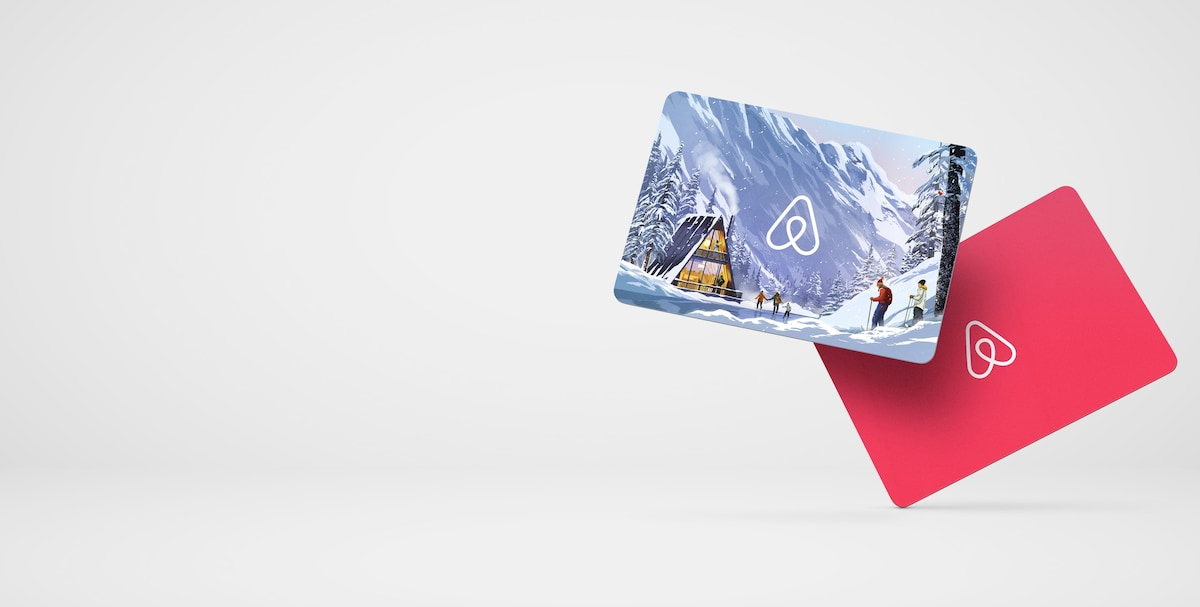
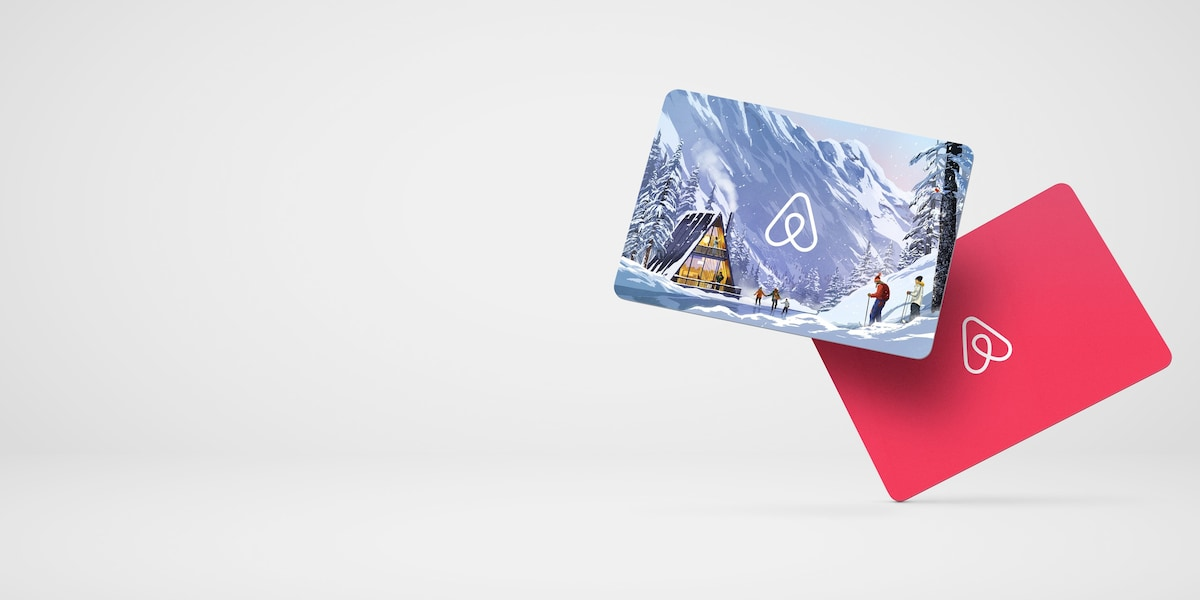
updated next trip component styling

diff --git a/components/nextTrip/NextTrip.module.css b/components/nextTrip/NextTrip.module.css
@@ -2,6 +2,7 @@
   display: flex;
   flex-direction: column;
   margin: 80px;
+  max-width: min(100%, 1600px);
 }
 
 .title {
@@ -11,10 +12,14 @@
 }
 
 .items__parent {
-  display: flex;
-  justify-content: space-between;
-  height: 300.66px;
-  column-gap: 24px;
+  display: grid;
+  grid-template-columns: repeat(4, 1fr);
+  grid-column-gap: 24px;
+  overflow-x: auto;
+}
+
+.items__parent::-webkit-scrollbar {
+  height: 0;
 }
 
 .items__container {
@@ -22,28 +27,39 @@
 }
 
 .item__outline {
-  display: flex;
-  flex-direction: column;
+  display: grid;
+  grid-template-rows: repeat(2, 1fr);
   border-radius: 12px;
   border: 0;
-  height: 100%;
   overflow: hidden;
 }
 
 .item__image {
-  flex: 1;
-  /* height: 160px; */
+  display: grid;
+  grid-area: 1 / 1 / 1/ 1;
 }
 
 .item__description {
   display: flex;
   flex-direction: column;
-  flex: 1;
   color: #fff;
+  padding: 20px 16px;
 }
 
 .item__location {
-  flex: 0.5;
+  font-size: 23px;
+  padding-bottom: 8px;
+}
+
+.item__distance {
+  font-size: 15px;
+  font-weight: 200;
+}
+
+@media (width <= 800) {
+  .item__outline {
+    width: calc(100vw / 1.5);
+  }
 }
 
 @media (width <= 1400px) {
@@ -52,13 +68,38 @@
   }
 }
 
-@media (width <= 1024px) {
+@media (width <= 1127px) {
   .container {
     margin: 40px;
+    overflow: hidden;
   }
 
   .title {
     font-size: 25px;
     margin-bottom: 24px;
+  }
+
+  .items__parent {
+    column-gap: 16px;
+  }
+}
+
+@media (width <= 950px) {
+  .container {
+    margin-right: 0;
+  }
+
+  .item__outline {
+    width: calc(100vw / 3);
+  }
+}
+
+@media (width <= 800px) {
+  .container {
+    margin-left: 24px;
+  }
+
+  .item__outline {
+    width: calc(100vw / 2);
   }
 }

diff --git a/pages/index.tsx b/pages/index.tsx
@@ -2,12 +2,12 @@ import type { NextPage } from "next";
 
 import { useSearch } from "../hooks/searchHook";
 import Nav from "../components/Nav/Nav/Nav";
-
-import styles from "../styles/Home.module.css";
 import GiftCard from "../components/giftcard/GiftCard/GiftCard";
 import Hero from "../components/hero/Hero";
 import NextTrip from "../components/nextTrip/NextTrip";
 import MobileMenu from "../components/mobileMenu/MobileMenu/MobileMenu";
+
+import styles from "../styles/Home.module.css";
 
 const Home: NextPage = () => {
   const { disableSearch, scrolled } = useSearch();
@@ -32,9 +32,7 @@ const Home: NextPage = () => {
           <Hero />
         </div>
         <GiftCard />
-        <div className={styles.nextTrip__container}>
-          <NextTrip />
-        </div>
+        <NextTrip />
         <div className={styles.mobileMenu}>
           <MobileMenu />
         </div>

diff --git a/components/giftcard/GiftCard/GiftCard.module.css b/components/giftcard/GiftCard/GiftCard.module.css
@@ -1,5 +1,7 @@
 .root {
   position: relative;
+  display: flex;
+  justify-content: center;
 }
 
 .background {
@@ -61,13 +63,14 @@
   font-size: 95px;
   font-weight: 600;
   text-align: center;
+  padding-bottom: 24px;
 }
 
 .mobileImage {
   display: none;
 }
 
-@media (width <= 1024px) {
+@media (width <= 1127px) {
   .container {
     margin: 0 40px 0 40px;
   }

diff --git a/styles/Home.module.css b/styles/Home.module.css
@@ -34,7 +34,7 @@
   z-index: 1;
 }
 
-@media (width <= 1024px) {
+@media (width <= 1127px) {
   .container {
     padding: 176px 0 64px 0;
   }
